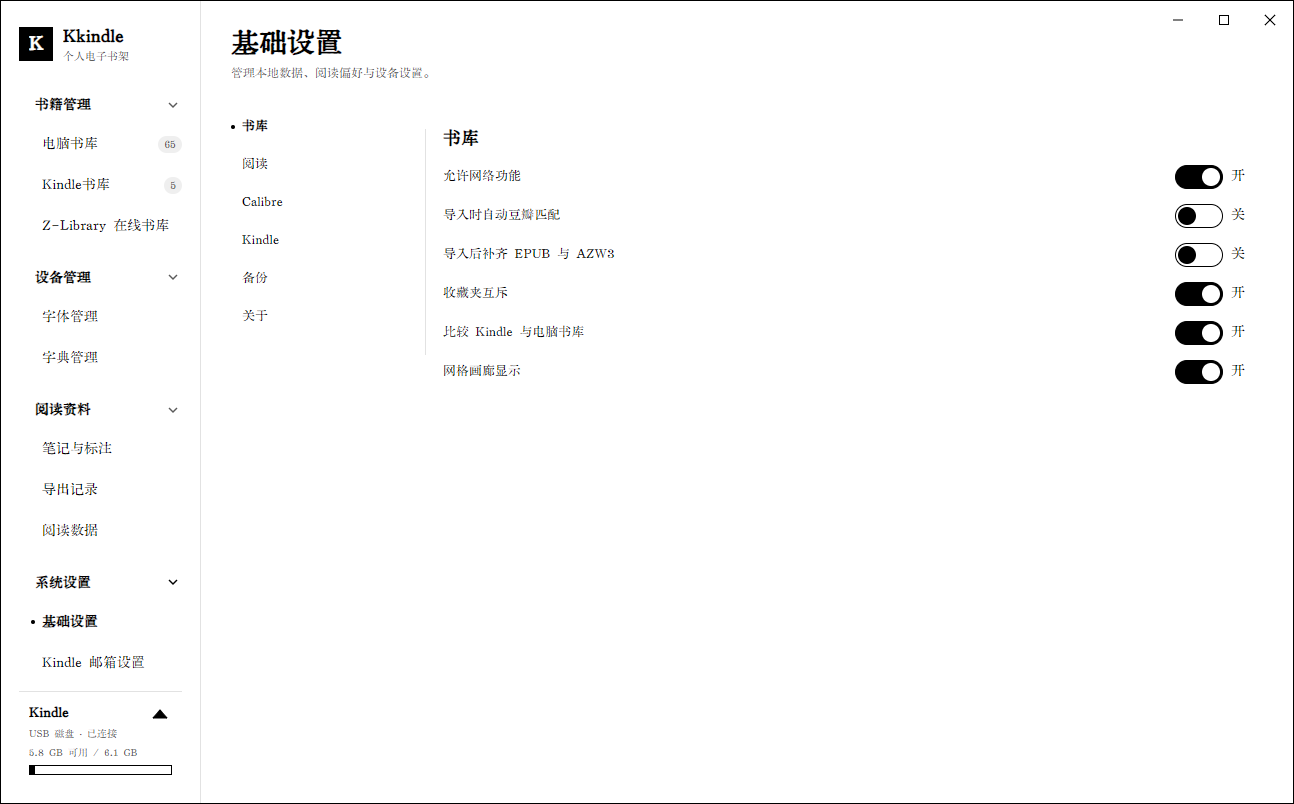
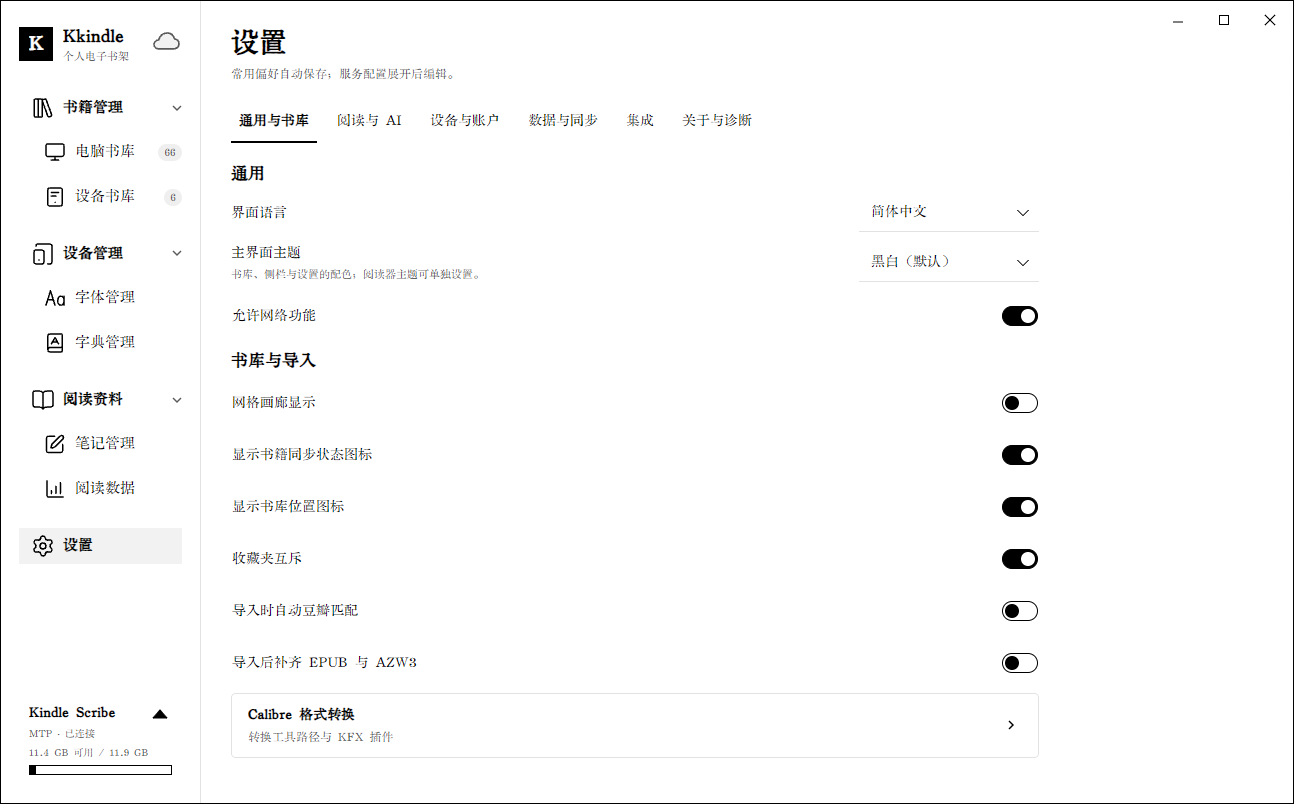
release: prepare v1.0.6

diff --git a/src/Kkindle.App/MainWindow.Settings.cs b/src/Kkindle.App/MainWindow.Settings.cs
@@ -90,7 +90,6 @@ public partial class MainWindow
             ["Reading"] = SettingsReadingSection,
             ["Kindle"] = SettingsKindleSection,
             ["Data"] = SettingsDataSection,
-            ["Integrations"] = SettingsIntegrationsSection,
             ["About"] = SettingsAboutSection
         };
         if (!sections.TryGetValue(tag, out var activeSection))
@@ -108,7 +107,7 @@ public partial class MainWindow
             SettingsScrollViewer.Offset = default;
         _activeSettingsCategory = tag;
         UpdateS3SettingsActions();
-        Button[] buttons = [SettingsLibraryButton, SettingsReadingButton, SettingsKindleButton, SettingsDataButton, SettingsIntegrationsButton, SettingsAboutButton];
+        Button[] buttons = [SettingsLibraryButton, SettingsReadingButton, SettingsKindleButton, SettingsDataButton, SettingsAboutButton];
         foreach (var button in buttons)
         {
             var active = string.Equals(button.Tag?.ToString(), tag, StringComparison.OrdinalIgnoreCase);

diff --git a/CHANGELOG.md b/CHANGELOG.md
@@ -5,6 +5,25 @@ Release 说明；某版本没有对应章节时，自动回退为该版本的详
 格式参照 [Keep a Changelog](https://keepachangelog.com/zh-CN/1.1.0/)。
 英文更新说明维护在同目录的 `CHANGELOG.en.md`，网页与软件更新提示会按当前语言自动选择。
 
+## 1.0.6 (2026-09-29)
+
+### 新增
+
+- 阅读器新增词典与维基百科查询弹窗。
+
+### 修复
+
+- 修复同步、书库导入、阅读器批注、MCP 工具及 Kindle 传输中的多项数据一致性与失败恢复问题。
+- 加强 EPUB、MCP、设备文件处理及模型下载的路径和完整性校验，提升安全性。
+- 修复更新安装包前 MCP 服务进程未停止、导致文件被占用的问题。
+
+### 优化
+
+- 改进 S3/WebDAV 同步的文件匹配、断点续传、并发访问和删除保护。
+- 优化阅读器查询弹窗定位，双页阅读时保持在当前选中页。
+- 将 MCP 服务设置移入“阅读与 AI”分类，并默认收起。
+- 在中英文 README 顶部添加官网链接。
+
 ## 1.0.2 (2026-09-19)
 
 ### 修复

diff --git a/CHANGELOG.en.md b/CHANGELOG.en.md
@@ -6,6 +6,25 @@ the Chinese changelog when the language is English.
 
 The format follows [Keep a Changelog](https://keepachangelog.com/en/1.1.0/).
 
+## 1.0.6 (2026-09-29)
+
+### Added
+
+- Added dictionary and Wikipedia lookup popups to the reader.
+
+### Fixed
+
+- Fixed data consistency and recovery issues across sync, library import, reader annotations, MCP tools, and Kindle transfers.
+- Strengthened path and integrity checks for EPUB, MCP, device-file, and model-download handling.
+- Fixed the MCP server keeping files in use during installer updates.
+
+### Improved
+
+- Improved S3/WebDAV file matching, interrupted-transfer recovery, concurrent access, and deletion safeguards.
+- Improved reader lookup popup positioning so it stays with the selected page in two-page reading.
+- Moved MCP server settings to the “Reading & AI” category and collapsed the section by default.
+- Added the official website link to the top of both README files.
+
 ## 1.0.2 (2026-09-19)
 
 ### Fixed

diff --git a/README.md b/README.md
@@ -2,6 +2,8 @@
 
 [![Release](https://github.com/kingstacker/Kkindle/actions/workflows/release.yml/badge.svg)](https://github.com/kingstacker/Kkindle/actions/workflows/release.yml) [![Latest release](https://img.shields.io/github/v/release/kingstacker/Kkindle)](https://github.com/kingstacker/Kkindle/releases/latest)
 
+[Official website](https://kkindle.stacker.beauty)
+
 [简体中文](README.zh-CN.md) · **English**
 
 Kkindle is a quiet, cross-platform ebook and Kindle manager built with Avalonia. It combines a local library, reading, annotations, AI assistance, format conversion, and Kindle transfer in one desktop app.

diff --git a/README.zh-CN.md b/README.zh-CN.md
@@ -2,6 +2,8 @@
 
 [![Release](https://github.com/kingstacker/Kkindle/actions/workflows/release.yml/badge.svg)](https://github.com/kingstacker/Kkindle/actions/workflows/release.yml) [![最新版本](https://img.shields.io/github/v/release/kingstacker/Kkindle)](https://github.com/kingstacker/Kkindle/releases/latest)
 
+[官方网站](https://kkindle.stacker.beauty)
+
 **简体中文** · [English](README.md)
 
 Kkindle 是一款基于 Avalonia 的跨平台电子书与 Kindle 管理器。它将本地书库、阅读、批注、AI 助手、格式转换和 Kindle 传输集中在一个简洁的桌面应用中。

diff --git a/docs/cross-platform.md b/docs/cross-platform.md
@@ -61,7 +61,7 @@ EPUB typography preferences.
 
 The `Development Build` GitHub Actions workflow can be run manually or by
 pushing the `dev`, `develop`, or `dev/**` branches. It appends the Actions run
-number to a base version such as `1.0.5-dev`, builds Windows installer and
+number to a base version such as `1.0.6-dev`, builds Windows installer and
 three-platform packages, and publishes a GitHub pre-release tagged with the
 development version. The workflow also keeps the per-platform artifacts for
 seven days. Development macOS packages always use ad-hoc signing.
